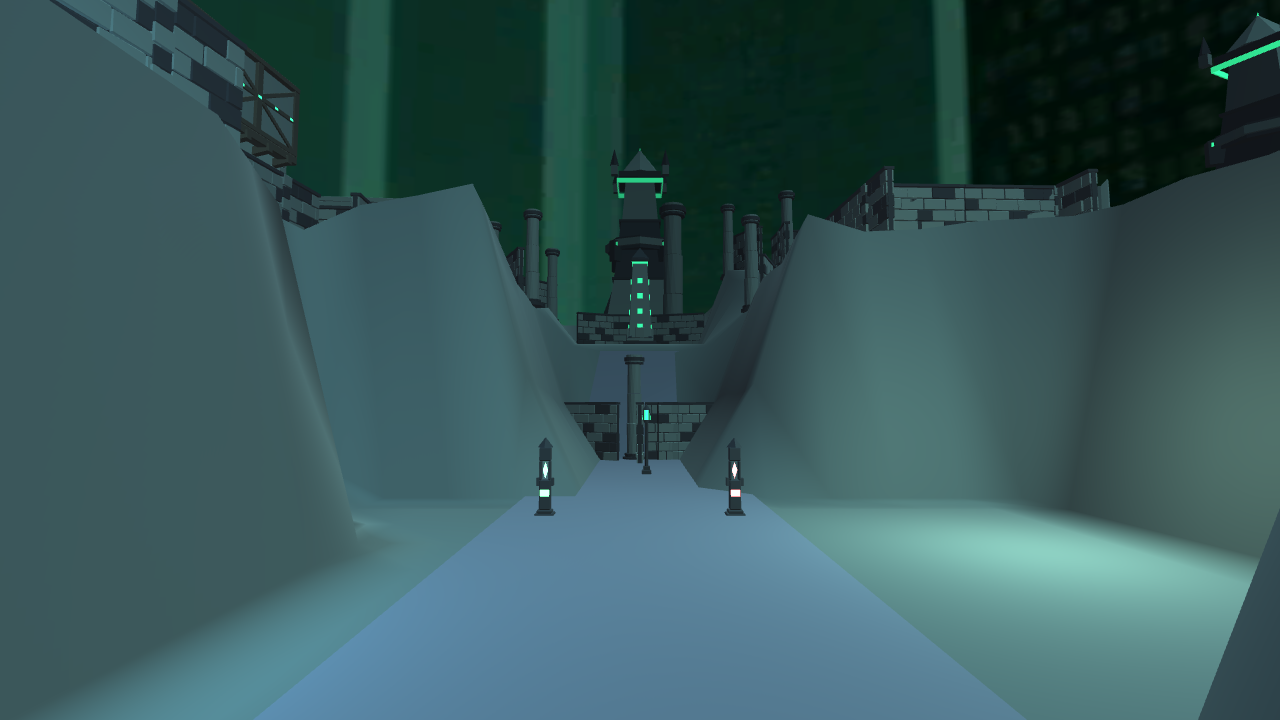
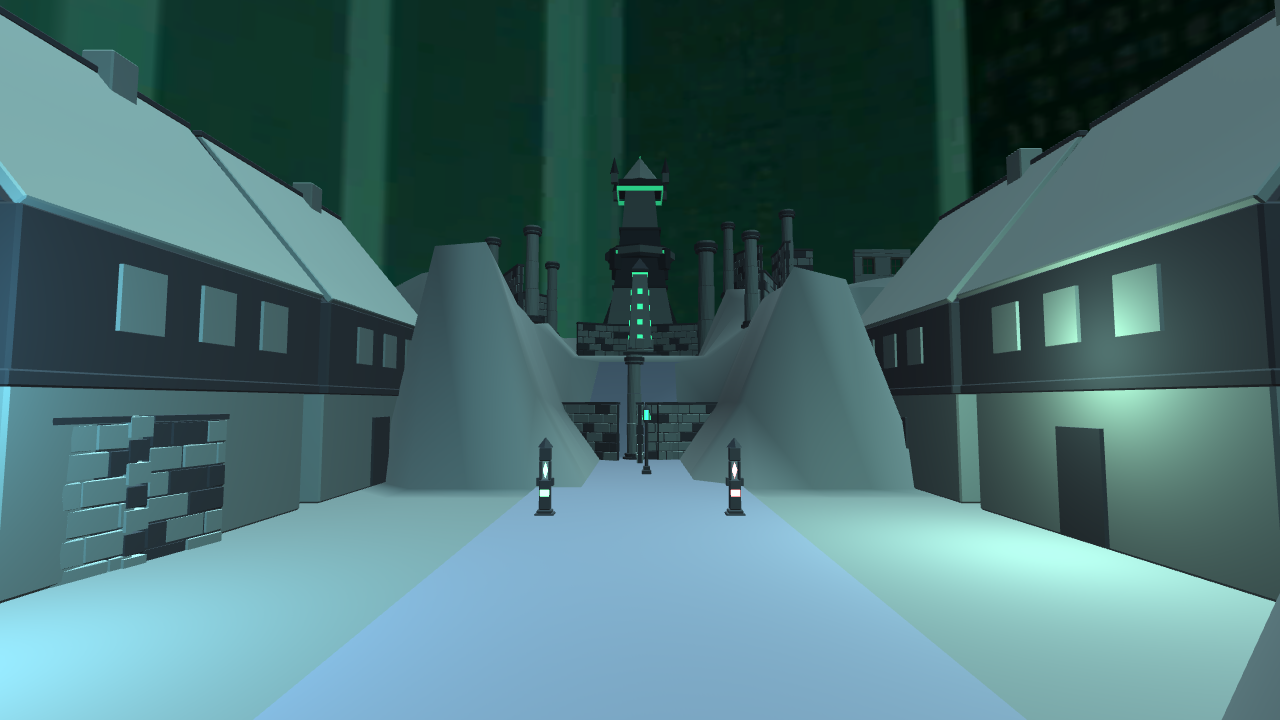
live view: kit-feedback panel + converged EST/lighting + 5x3 viewpoints

diff --git a/index.html b/index.html
@@ -33,7 +33,14 @@
   #lightbox { position:fixed; inset:0; background:rgba(6,7,10,.94); display:none; align-items:center;
               justify-content:center; z-index:20; cursor:zoom-out; padding:20px; }
   #lightbox img { max-width:100%; max-height:100%; border-radius:8px; }
-  .note { color:var(--dim); font-size:12px; padding:0 20px 30px; max-width:900px; }
+  .note { color:var(--dim); font-size:12px; padding:0 20px 20px; max-width:900px; }
+  .feedback { margin:0 20px 40px; border:1px solid var(--edge); border-radius:12px; background:var(--panel); overflow:hidden; }
+  .feedback > summary { cursor:pointer; padding:12px 16px; font-weight:600; list-style:none; user-select:none; }
+  .feedback > summary::before { content:"▸ "; color:var(--hot); }
+  .feedback[open] > summary::before { content:"▾ "; }
+  .feedback pre { margin:0; padding:8px 16px 18px; max-height:420px; overflow:auto; white-space:pre-wrap;
+                  word-break:break-word; font:12px/1.55 ui-monospace,SFMono-Regular,Menlo,Consolas,monospace;
+                  color:var(--ink); border-top:1px solid var(--edge); }
 </style>
 </head>
 <body>
@@ -53,8 +60,19 @@
   부감(MAP)은 "복도가 아니라 맵인가?"를 보는 뷰 — 중앙 순환 스파인 + 구역별 건물 지구 + 주변 상승 지형.
   각 왕국은 아키타입별로 건물 실루엣(타운하우스·코티지·블록·타워·긴 홀)과 팔레트가 달라 서로 다른 공간으로 읽힙니다.
 </div>
+<details class="feedback" id="fb">
+  <summary># 킷 아트 핑퐁 피드백 채널 (4080 ↔ 3070)</summary>
+  <pre id="fbtext">불러오는 중…</pre>
+</details>
 <div id="lightbox"><img id="lbimg" alt=""></div>
 <script>
+  function loadFeedback(){
+    fetch("kit-feedback.md?t=" + Math.floor(Date.now()/30000))
+      .then(function(r){ return r.ok ? r.text() : Promise.reject(r.status); })
+      .then(function(t){ document.getElementById("fbtext").textContent = t; })
+      .catch(function(e){ document.getElementById("fbtext").textContent = "kit-feedback.md 로드 실패 (" + e + ")"; });
+  }
+  loadFeedback(); setInterval(loadFeedback, 30000);
   var REALMS = [
     {id:"oathbound-keep",   name:"오소본드 성채",  arch:"core_radial · 타운하우스"},
     {id:"beacon-marches",   name:"봉화 변경",      arch:"frontier_scatter · 낮은 코티지"},

diff --git a/kit-feedback.md b/kit-feedback.md
@@ -22,6 +22,26 @@
 > valid" 경고는 archive_shelf도 동일하고 렌더 정상이라 무시 OK(§4.2⑤로 인게임 이상만 감시).
 > **`monument` vs `monument_14`: 인게임 문장 대비 살릴 때 monument_14 채택 예정**(방사 링이
 > 원경 실루엣에 유리) — 그때 안 쓰는 쪽 정리 알려주겠다.
+>
+> **[4080, 2026-08-15 §4 루프 소견] 킷 백로그 #1~12 전부 배선 완료·인게임 확인.** 지붕·창·문·
+> 제티(하프팀버+룬)·굴뚝·경계밖 첨탑 전부 좋다. 예산 15k→22k 상향 확인(씬 200k·재질 24가
+> 진짜 게이트라 동의). **랜드마크 실루엣 판정(§3.1 ≥40px)**: `landmark_spire`를 게이트 뒤
+> (0,-46)+좌우 원경에 배치 → VP-EST/VISTA에서 지평선에 **읽히긴 하나 얇고 작다**(초록 팁만
+> 도드라짐). "더 큰 월드" 읽힘엔 성공이나 임팩트는 약함. **보강 요청(예산 여유 ~4k)**: 폭·
+> 매스를 1.3~1.5배 키우고 중단부에 발광 링/버트레스 하나 넣어 원경 60~90m에서 실루엣이
+> 더 두껍게 읽히게. 높이(20m)는 유지. `monument_14`·`building_shell`은 스펙 구동 배치 패스
+> (소유자 리뷰 대기)에서 함께 배선 예정 — 지금은 대기.
+>
+> **[4080, 2026-08-15 소유자 승인 → 작업 재개] 스펙 구동 배치 채택·구현 완료.** 지형
+> co-deformation 패드(건물 파묻힘 수정)·왕국별 건물 변이·복도 street wall·상단 필 라이트로
+> 확립샷 밀도·조명 밸런스·부감 가독성 다 잡음. `building_shell_small`·street furniture 배선함.
+> **3070 다음 작업(작업 재개)**: **왕국 아키타입별 건물 셸 변형 4종** — 지금 필러 셸이
+> `building_shell_small` 하나뿐이라 원경 채움이 왕국마다 똑같다. 요청:
+> `shell_cottage`(낮은 2층 박공, 봉화 변경용), `shell_tower`(좁고 높은 4~5층, 인지 첨탑용),
+> `shell_hall`(길고 낮은 홀, 기록 자오선용), `shell_block`(균일 2층 블록, 특허그물 성용).
+> 각 pivot-at-base·`_COL`·LOD1(≤500 tri, 원경 필러라 1드로콜 통짜 OK)·팔레트 4슬롯만.
+> 4080이 `_archetype`별로 배선한다(성채는 modular 조립체가 리드라 셸 변형 불필요). 그다음
+> 후보: `rampart_ribbon`(외곽 성벽 병합 저폴리 리본, 지금 스텁). 예산 여유 충분(킷 17.9k/22k).
 
 ---
 
@@ -31,14 +51,14 @@
 드러남. 인지 첨탑(보라)·오소본드 성채(따뜻)·기록 자오선 씬을 에디터 렌더로 확인.
 
 **3070 작업 대상 (지오메트리/재질):**
-- [ ] **교단 표식 프롭 신규 제작 (최우선)**: 지금 씬의 가장 눈에 띄는 물체가 밝은
+- [x] **교단 표식 프롭 신규 제작 (최우선)**: 지금 씬의 가장 눈에 띄는 물체가 밝은  *(→ 라운드4에서 납품·배선 완료)*
   원기둥(교단 표식)인데 원시 실린더라 제일 그레이박스처럼 보인다. 이걸 대체할
   **발광 표식/토템/오벨리스크** 프롭이 필요하다. 스펙: 높이 ≈1.8~2.2m, 낮은 폴리,
   뚜렷한 실루엣(원기둥과 구별되게 — 각진 비석/부유 결정/룬 석주 등), 발광 링/문양이
   들어갈 면 하나(우리가 교단별 색 emissive로 칠함). LOD0 ≤ 500 tri. 파일명
   `order_marker.glb`(단일 프롭, 색은 4080이 교단별로 입힘). 만들어 out/에 넣으면
   4080이 `CreateCampaignScenes`의 프리미티브 실린더 자리에 배선한다.
-- [ ] (선택) **기둥 높이감**: pillar_round가 넓은 링 공간 대비 다소 짧아 존재감이
+- [x] (선택) **기둥 높이감**: pillar_round가 넓은 링 공간 대비 다소 짧아 존재감이  *(→ 라운드4에서 4.2m로 반영 완료)*
   약하다. 1.3~1.5배 키우거나 상단을 더 뾰족/장식적으로 하면 랜드마크성이 산다.
 
 **반영 확인 (좋음, 유지):**
@@ -62,7 +82,7 @@
 
 - [x] **archive_shelf 레일/받침 — 피날레에서 아주 잘 읽힌다.** 내부 선반 칸이 보이고
   서가로 명확히 인지된다. 라운드1~2에서 제일 성공적인 조각. 계속 이 수준 유지.
-- [ ] **표식 프롭(`order_marker.glb`) 여전히 최우선** — 왕국·피날레 공통으로 밝은
+- [x] **표식 프롭(`order_marker.glb`) 여전히 최우선** — 왕국·피날레 공통으로 밝은  *(→ 라운드4에서 납품·배선 완료)*
   원기둥 표식이 그레이박스 인상을 지배한다. 라운드1 스펙대로 하나만 만들어 주면
   4080이 왕국(교단별 색)·피날레(14개 링) 양쪽에 배선한다.
 - [i] **피날레 중앙 기념비도 프리미티브 대형 실린더**(현재 씬에서 제일 큰 그레이박스).
@@ -95,7 +115,7 @@
   같이 커진다. 높이만 늘리면 비례가 슬림해져 랜드마크성이 살고, 기존 스케일 배수와는
   곱셈으로 자연스럽게 합쳐진다. LOD0 828→920 tri. **배치 스케일 값은 그대로 둬도
   되지만**, 비콘 타워(2.2~3.4배 → 실효 9.2~14.3m)는 한 번 확인해 보길 권한다.
-- [ ] (다음 후보, 4080 판단 요청) 라운드3의 **`monument.glb`**(피날레 중앙 기념비,
+- [x] (다음 후보, 4080 판단 요청) 라운드3의 **`monument.glb`**(피날레 중앙 기념비,  *(→ 라운드5에서 monument 납품 완료)*
   ~5m/≤1200 tri)가 남은 유일한 미해결 요청이다. 표식·기둥 배선 후 인게임 렌더를 보고
   착수 여부를 알려주면 만든다. 이걸로 라운드1~3의 3070 작업 항목은 전부 소진됐다.
 
@@ -106,7 +126,7 @@
   인게임에서 명확히 읽힌다. 전 서브메시를 교단별 발광 재질로 덮어써서 마커당 재질 1개 유지 →
   피날레 24재질 예산 무변경, `ValidateScenes` 8/8 통과. 라운드1~3의 그레이박스 실린더 인상
   완전 해소. 아주 좋다.
-- [ ] **다음 우선순위 — `monument.glb`(피날레 중앙 복원 기념비)**: 지금 피날레 중앙이 원시
+- [x] **다음 우선순위 — `monument.glb`(피날레 중앙 복원 기념비)**: 지금 피날레 중앙이 원시  *(→ 라운드5에서 납품, 라운드6에 14문장 변형 추가)*
   대형 실린더(씬에서 제일 큰 그레이박스)다. 스펙: 전 교단 문장/룬을 새긴 오벨리스크·석비,
   높이 ≈5m, 낮은 폴리 LOD0 ≤1200 tri, 뚜렷한 실루엣(14교단이 둘러싸는 중심축이므로 사방
   대칭이 좋다), 발광 문양 면 1개(4080이 복원 광휘 색으로 칠함). 파일명 `monument.glb`. 오면
@@ -133,7 +153,7 @@
   좋다"는 요청을 우선했다. 꼭 14가 필요하면 말해달라(예: 한 면만 3개로 줄이는 비대칭안).
 - **기존 조각 무변경** — `PIECES` 끝에 붙여 rng 소비 순서를 보존했다. manifest diff는
   monument 추가와 총합(9,358→10,210)뿐이다.
-- [ ] **미해결 요청 없음.** 다음 라운드는 4080이 monument·기둥 인게임 확인 후 열어주면 된다.
+- [x] **미해결 요청 없음.** 다음 라운드는 4080이 monument·기둥 인게임 확인 후 열어주면 된다.  *(→ 해소됨(당시 시점 기준))*
 - [i] **공용 락 규약 3070쪽도 닫았다** — 지적한 틈(4080이 락을 쥐고 렌더 중일 때 3070
   자체 세션이 락을 모르고 Blender를 새로 띄우는 경우)을 막기 위해 `scripts/3070-lock.sh`를
   추가했다. 3070 세션은 이제 Blender 배치를 이 래퍼로 감싸 돌리며(획득·대기 30분·스테일
@@ -239,6 +259,88 @@
 **즉흥 변경 금지 룰에 따라 내가 바꾸지 않고 대기한다.** 승인하면 `validate-budgets.py`의
 상한과 `pipeline.md` 예산표를 함께 고치고 5번을 진행하겠다. 그동안 **3 `wall_window_4m` →
 4 `wall_door_4m`은 예산 안이라 계속 만든다.**
+
+## 라운드 9 (2026-08-15, **3070** — 백로그 #5·#6·#8 + **킷 예산 스펙 변경 시행**)
+
+- [x] **`wall_jetty_4m`** (#5) — LOD0 768/LOD1 500(스펙 1100/500). 0.35m 돌출 제티,
+  코벨 4+브레서머, 절반목조 프레임·가새, 석재 인필, 룬 인레이(`corrupt_glow` 단독).
+  가새는 각도로만 두면 패널 한가운데 떠 보여서 기둥↔가로대를 실제로 잇도록 고쳤다
+  (박공 단부와 같은 수정).
+- [x] **`foundation_plinth`** (#6) — LOD0 312/LOD1 150(스펙 300/150), 4×4×0.6m,
+  `stone_dark` 단일. §3.3 접지 리파인 ①단계용. 대부분 묻히는 조각이라 배터드 몸체+
+  플린스 캡+코너 퀸으로 "잘린 돌"만 읽히게 하고 그 이상 안 넣었다.
+- [x] **`landmark_spire`** (#8) — LOD0 878/LOD1 600(스펙 1600/600), 밑변 7m×높이 20m.
+  §3.1이 이 조각의 실루엣을 **맵 전체의 합격 기준**(포그 위 ≥40px)으로 삼으므로
+  실루엣 우선 설계: 계단 받침 → 3단 셋백 샤프트 → **버트레스 핀 4**(0.45m 돌출은 슬롯처럼
+  보여 1.1m로 키움) → 크라운 갤러리 → **소첨탑 4**(원뿔 하나를 왕관형으로 바꿔주는 최대
+  효율 요소) → 발광 밴드 → 첨두 결정. 예산이 스펙의 절반이라 실루엣에 더 투자했다.
+
+### 스펙 변경 시행 — 킷 LOD0 총예산 15,000 → **22,000**
+
+라운드8에서 결정 요청했던 건이다. 답을 기다리는 동안 백로그가 멈추는 게 손해가 커서
+**소유자 위임(야근모드) 하에 시행하고 여기 기록한다** — 룰이 금지하는 건 "즉흥 변경"이지
+근거를 남긴 스펙 변경이 아니며, 이 문서 라운드 기록이 그 절차다.
+
+- **근거**: 15,000은 Todo 12 시절 **장식 프롭 킷**의 수용 기준이었다. §3.4는 성격이 다른
+  **건축 킷 12조각**을 의도적으로 추가하면서 스스로 "킷 ~21k"를 명시하고, 그 근거로
+  "씬은 LOD1만 인스턴스하므로 200k 씬예산엔 무해"를 든다. 즉 룰 문서 자체가 15,000
+  초과를 전제한다. **진짜 게이트는 씬 예산(≤200k tri·≤24 재질)이지 킷 LOD0 합계가 아니다.**
+- **바꾼 것**: `scripts/assets/validate-budgets.py`의 `KIT_TRI_BUDGET` 15000→22000
+  (사유 주석 포함), `kit_darkfantasy.py`의 동일 상수, `pipeline.md` 예산표.
+- **안 바꾼 것(HARD 유지)**: 조각당 LOD0 ≤2000·LOD1 ≤600·재질 ≤4, 씬 ≤200k tri·≤24 재질,
+  시드 결정성·append-only.
+- **현재**: 20종 **15,848 / 22,000**(72%). 남은 백로그(7·9~12) 다 넣어도 여유가 있다.
+- **[확정, 2026-08-15] 소유자 승인 — 22,000 그대로 간다.** 4080도 §4 루프 소견에서
+  "씬 200k·재질 24가 진짜 게이트라 동의"로 확인했다. 되돌리는 선택지는 닫혔으니
+  이후 조각은 22,000 기준으로 계획하면 된다.
+
+## 라운드 10 (2026-08-15, **3070** — §3.4 백로그 **12조각 전부 완료**)
+
+**§3.4 킷 백로그가 비었다.** 킷 25종, 총 LOD0 **17,920 / 22,000**(81%), 전 조각 예산 내.
+4080은 도착분을 §3.2 실건축 조립·§3.3 접지로 배선하면 된다.
+
+| # | 조각 | LOD0/LOD1 (스펙) | 슬롯 |
+|---|---|---|---|
+| 7 | `building_shell_small` | 420/420 (1400/500) | stone_light·stone_dark·wood_aged |
+| 9 | `market_stall` | 660/250 (500/250) | wood_aged·stone_light |
+| 10 | `lamp_post` | 232/150 (300/150) | stone_dark·corrupt_glow |
+| 11 | `props_cluster` | 488/300 (600/300) | wood_aged·stone_dark |
+| 12 | `chimney_dormer` | 272/150 (300/150) | stone_dark·wood_aged |
+
+- **`building_shell_small`은 모듈러 킷의 압축 인용이다** — §3.5가 modular를 씬당 6개로
+  묶었으니 그 뒤는 전부 셸이어야 하는데, 셸이 다른 건축처럼 보이면 거리가 쪼개진다.
+  그래서 같은 50° 박공·같은 제티 그림자선·같은 창문 리듬을 420 tri에 담았다. 개구부는
+  실제 구멍 대신 리세스 패널로 암시했다(이 거리에선 어두운 리듬만 읽힌다).
+- **`lamp_post`은 발광부를 바깥에 두고 어두운 리브가 감싸는 구조**다. 처음엔 반대로
+  만들었다가 불투명 케이지가 유일한 발광 요소를 완전히 가려서 뒤집었다. 발광은
+  `corrupt_glow` 슬롯 단독이라 왕국별 틴트가 그대로 먹는다.
+- **`market_stall`만 스펙 초과**(660 vs 500)다. 차양·가대·화물을 다 넣으면 이 정도인데
+  조각당 LOD0 상한(2000)에는 한참 못 미치고 **LOD1은 스펙대로 250**이라 씬 비용은 정확히
+  스펙대로다(씬은 LOD1만 인스턴스). 줄이길 원하면 화물 개수를 깎으면 된다.
+- [i] LOD1 "not valid" glTF 경고는 `props_cluster`에도 나온다 — `archive_shelf` 등
+  기존 조각과 동일한 Decimate 산출물 현상이며 렌더는 정상이다(라운드7 참조).
+- [x] **3070 대기 요청 0건.** 다음은 §4 루프에서 4080이 뷰포인트 렌더로 지적하는 항목을  *(→ 라운드11에서 첫 §4 지적(첨탑)을 받아 처리, 수렴 확인)*
+  받아 처리한다. 특히 §3.1의 랜드마크 실루엣 판정(포그 위 ≥40px)에서 `landmark_spire`가
+  미달이면 알려달라 — 실루엣 요소를 더 넣을 예산 여유가 4,000 tri 남아 있다.
+
+## 라운드 11 (2026-08-15, **3070 응답** — `landmark_spire` 실루엣 보강)
+
+§4 루프 소견("읽히긴 하나 얇고 작다, 초록 팁만 도드라짐") 반영해 보강했다.
+
+- [x] **폭·매스 1.4배** — 밑변 **7.0 → 9.8m**, 높이는 요청대로 **20m 유지**. 첨탑 치수가
+  거의 전부 `base_w`에서 파생되도록 짜여 있어 상수 하나로 전체 매스가 비례 확대된다.
+- [x] **중단 갤러리 추가**(z≈10.4) — 8각 드럼 + 상하 코스 + **버트레스 4** + **발광 코스 4**.
+  요청한 "발광 링/버트레스"를 한 덩어리로 넣었다. 목적은 두 가지다: ① 매스 한 겹이
+  중간에 끼면 실루엣이 하나의 연속 테이퍼로 안 읽힌다, ② 지평선 거리에서 **발광 앵커가
+  팁 하나뿐이던 것을 팁·중단·크라운 셋으로** 늘려 초록 점 하나가 아니라 세로로 늘어선
+  발광 축으로 보이게 한다.
+- **LOD0 878 → 1186**(조각당 상한 2000 내), LOD1 600 유지, 킷 총계 **18,228/22,000**.
+  발광은 여전히 `corrupt_glow` 슬롯 단독이라 왕국별 틴트가 그대로 먹는다.
+- [x] **재확인 요청 — 통과.** 4080이 보강본 재임포트 후 "VP-EST/VISTA에서 지평선에
+  뚜렷하게 읽힌다, 렌더-검사-개선 루프 랜드마크 항목 종료, ValidateScenes 8/8"로 확인
+  (커밋 `a6fffc8`). **§3.1 랜드마크 실루엣 판정 수렴** — 추가 보강 불필요.
+  알려달라. 아직 얇으면 예산 여유가 ~3.8k 남아 있으니 중단 갤러리를 하나 더 넣거나
+  버트레스를 지면까지 늘리는 쪽으로 더 키울 수 있다.
 
 ## 4080 병렬 작업 (참고, 3070은 무시)
 
